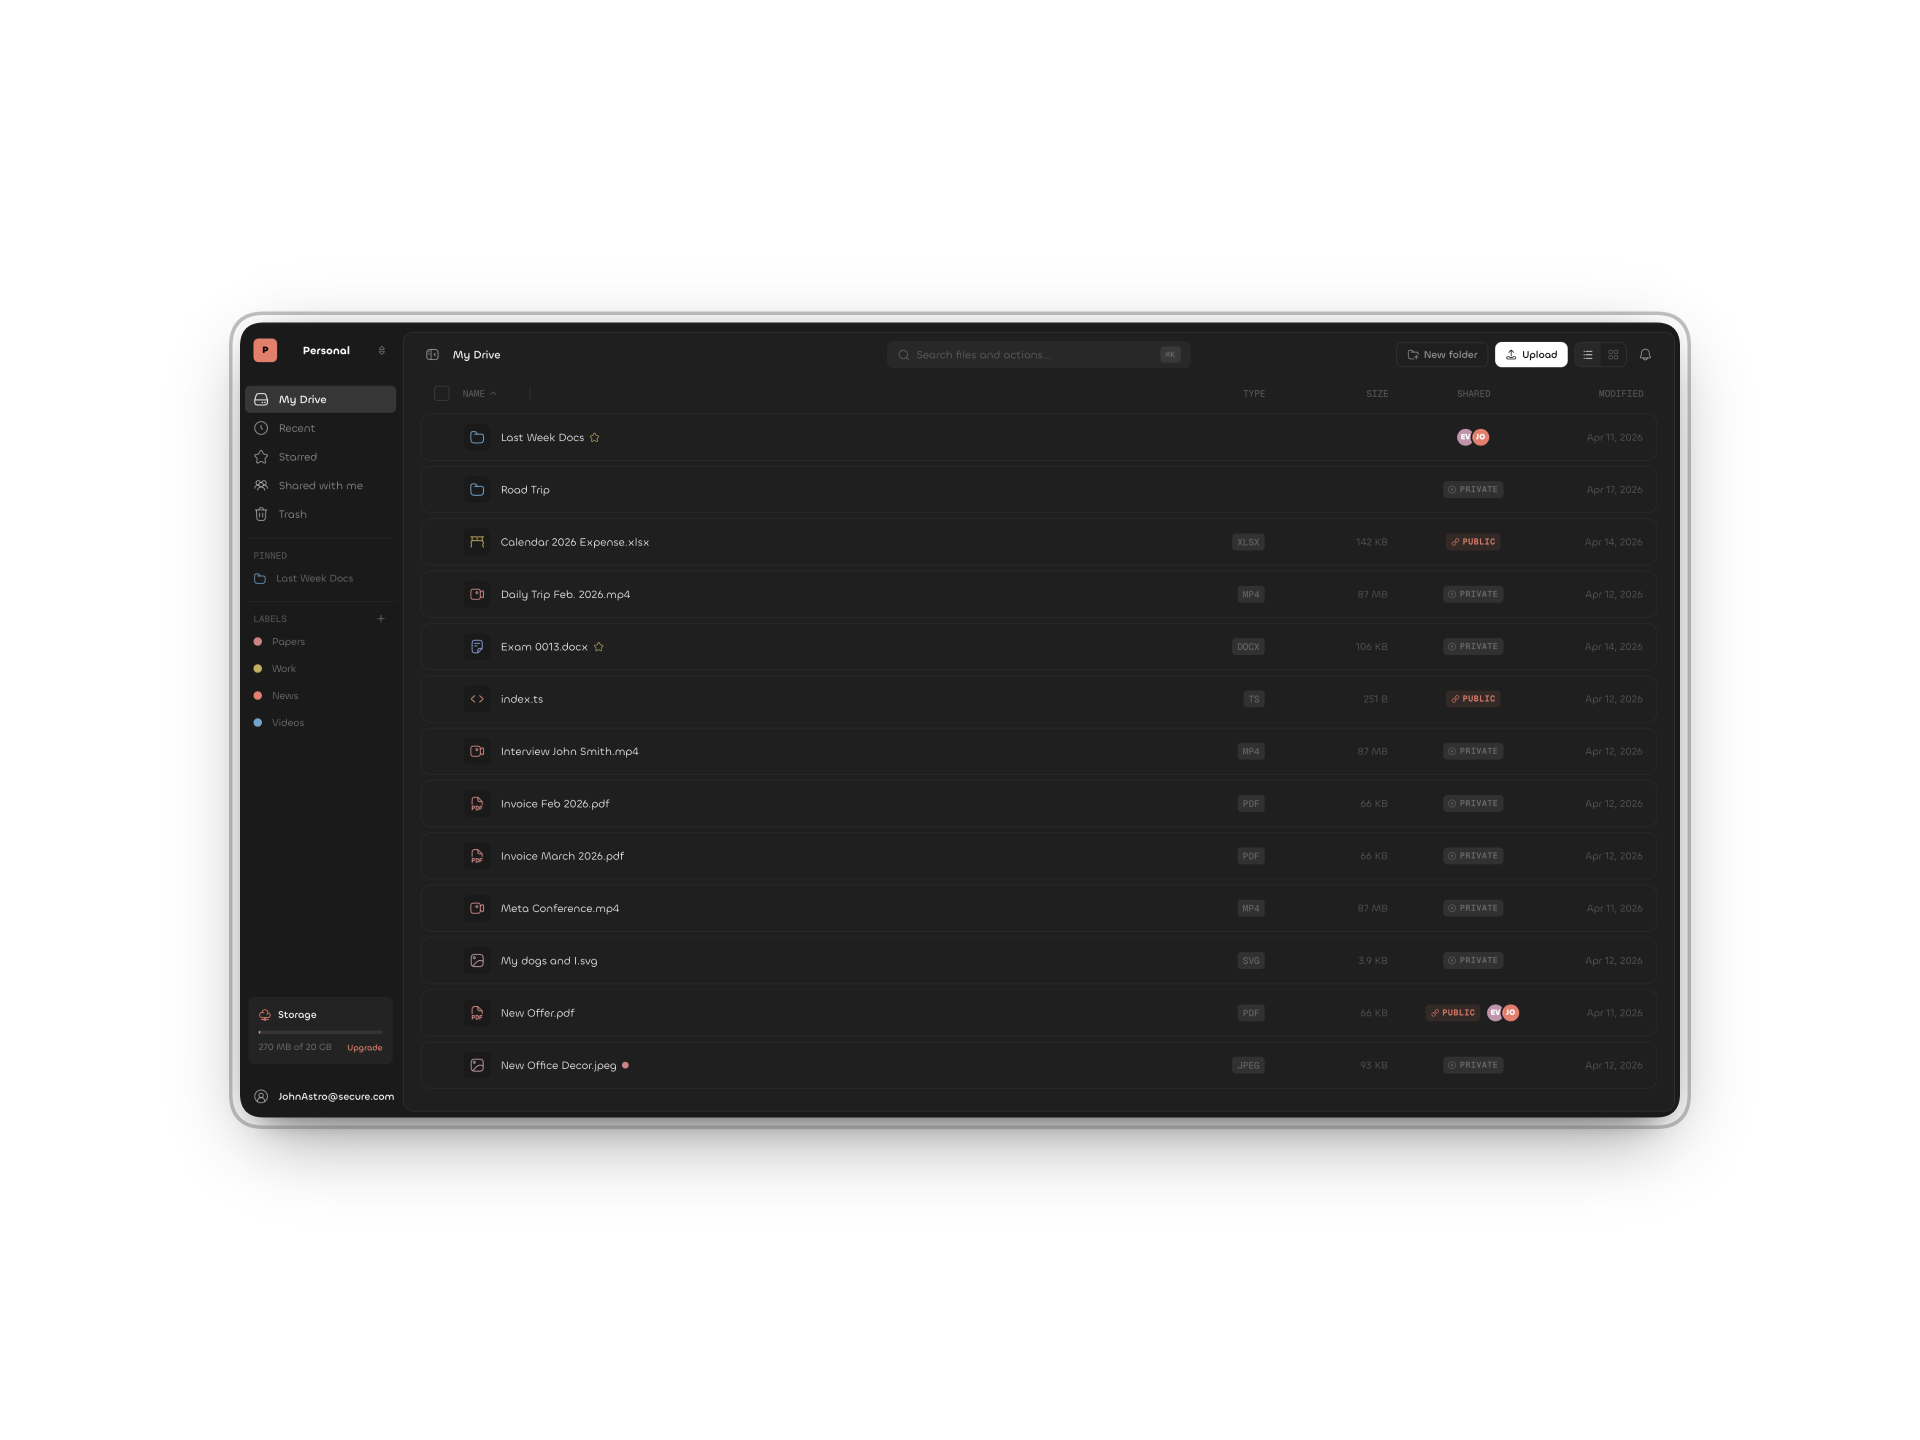
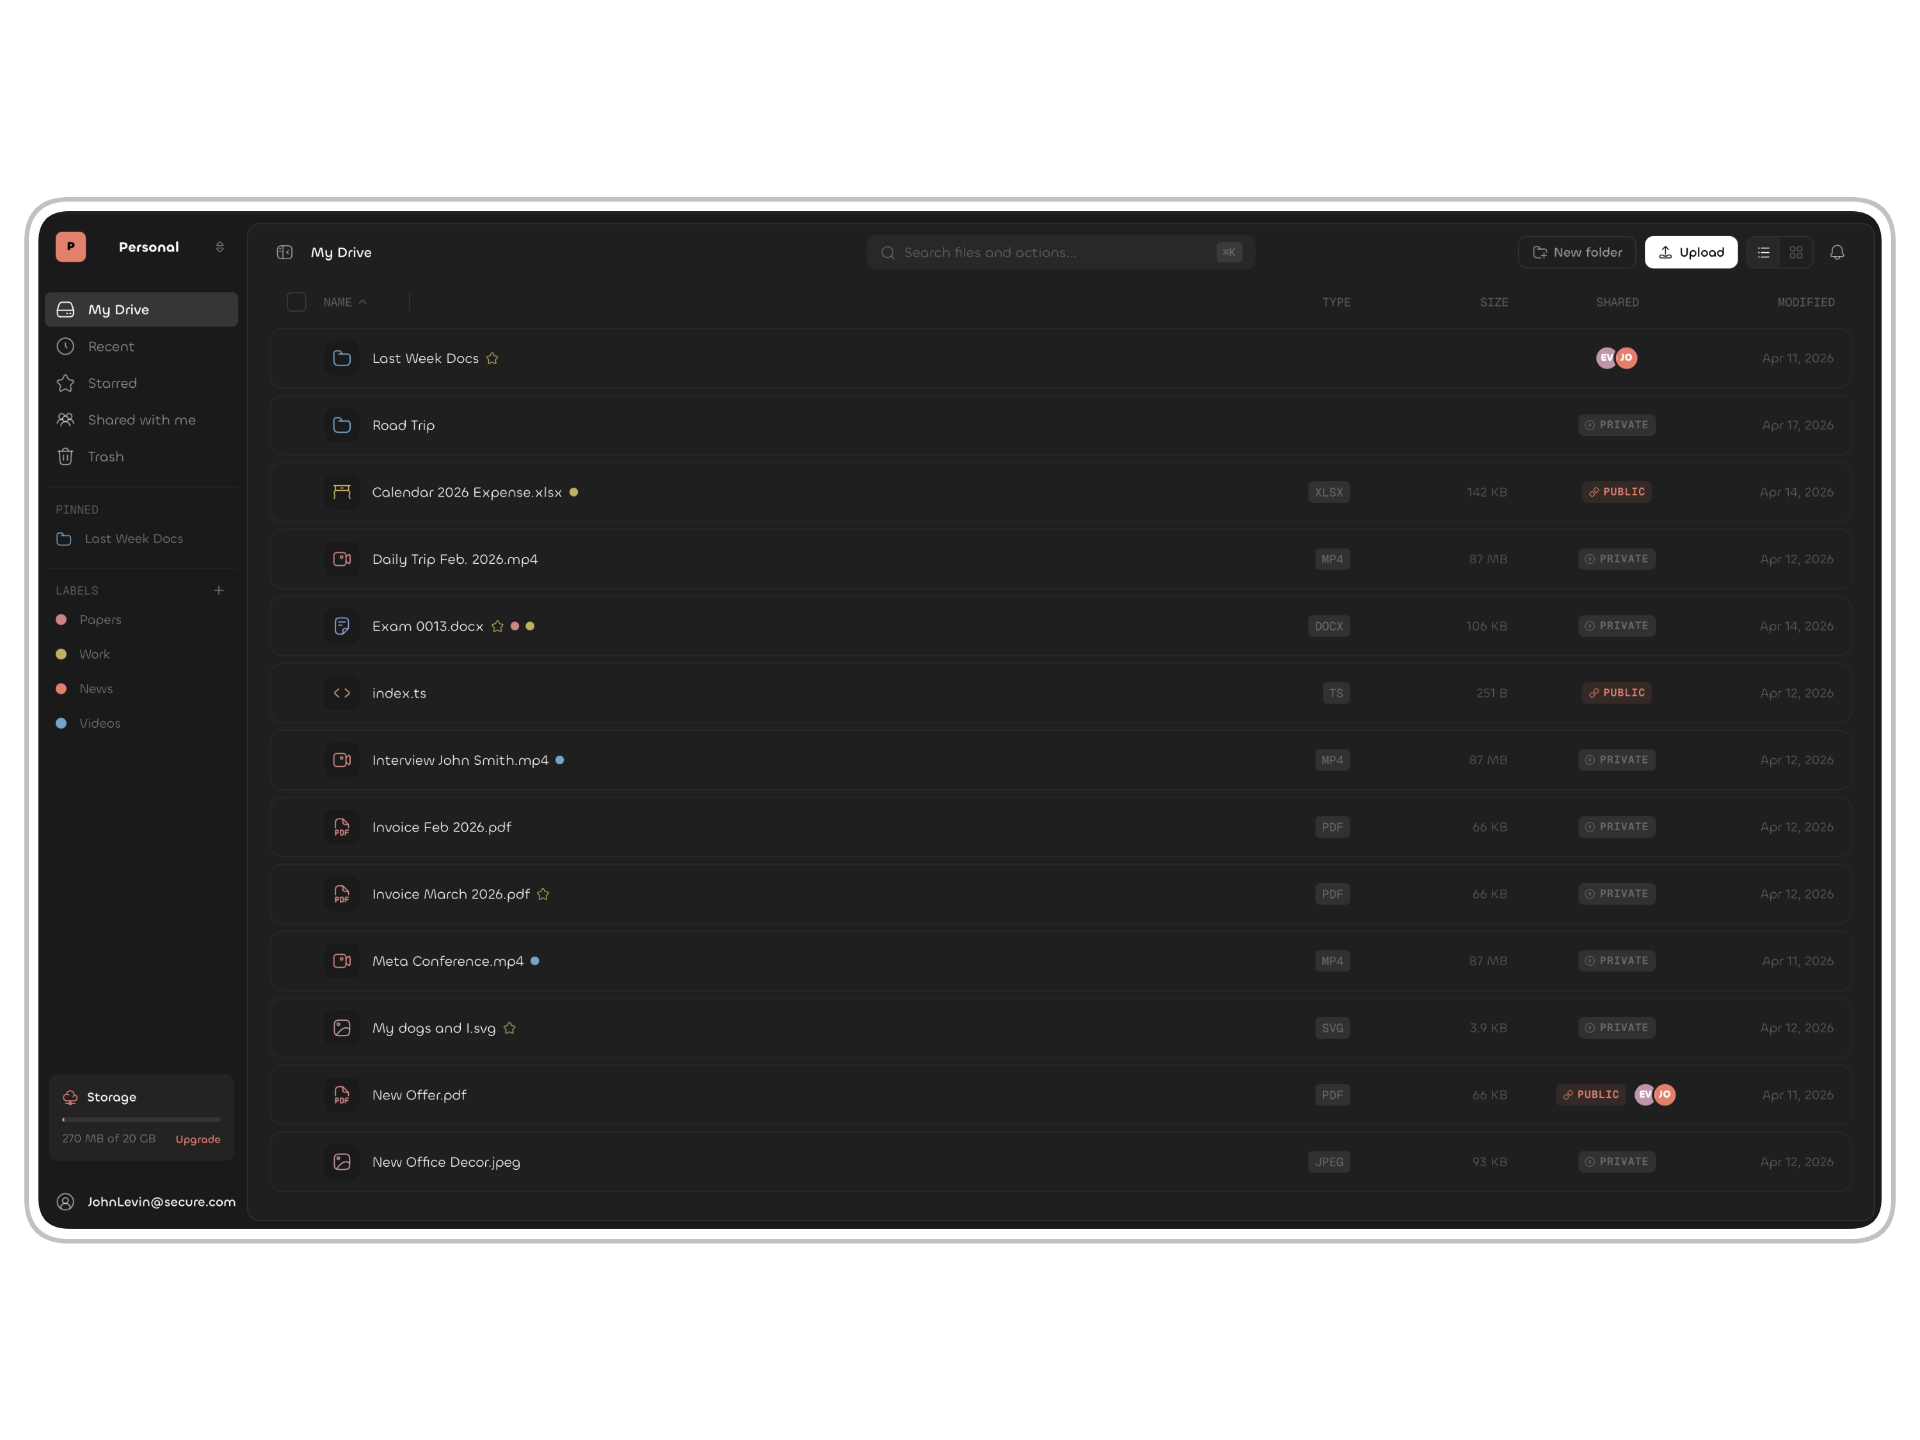
Landing hero: updated dashboard screenshot + dial scale back

diff --git a/src/app/(marketing)/page.tsx b/src/app/(marketing)/page.tsx
@@ -3797,7 +3797,7 @@ function HeroDashboardFrame() {
         }}
       >
         <img
-          src="/screens/securewarpdarkdash.png?v=4"
+          src="/screens/securewarpdarkdash.png?v=5"
           alt="SecureWarp dashboard showing an encrypted file list"
           style={{
             display: "block",
@@ -3805,7 +3805,7 @@ function HeroDashboardFrame() {
             height: "100%",
             objectFit: "cover",
             objectPosition: "center",
-            transform: "scale(1.3)",
+            transform: "scale(1.02)",
           }}
         />
       </div>
